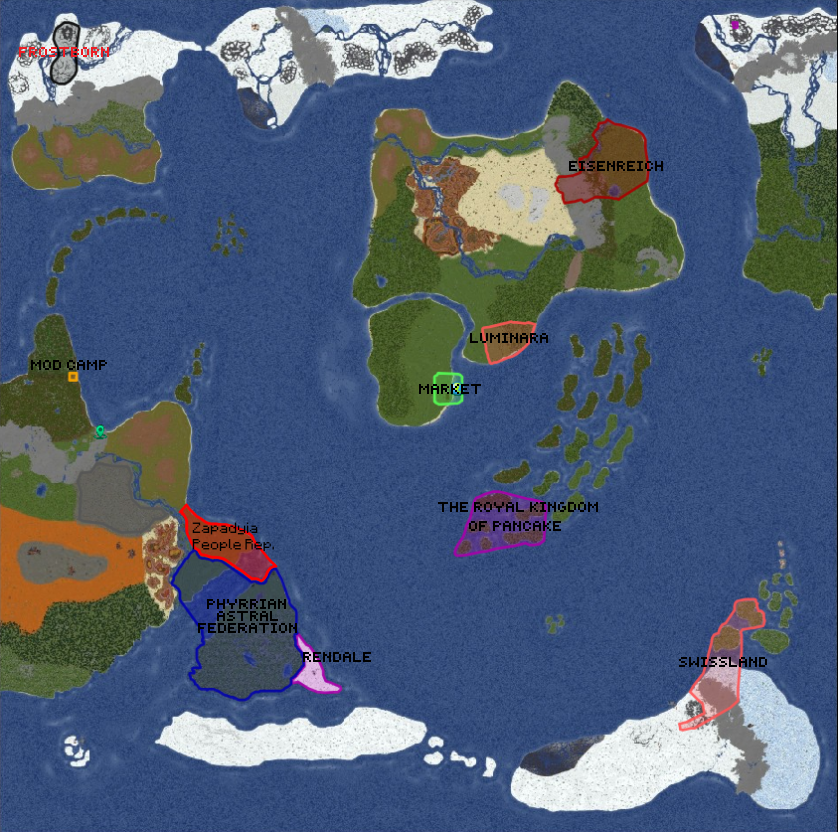
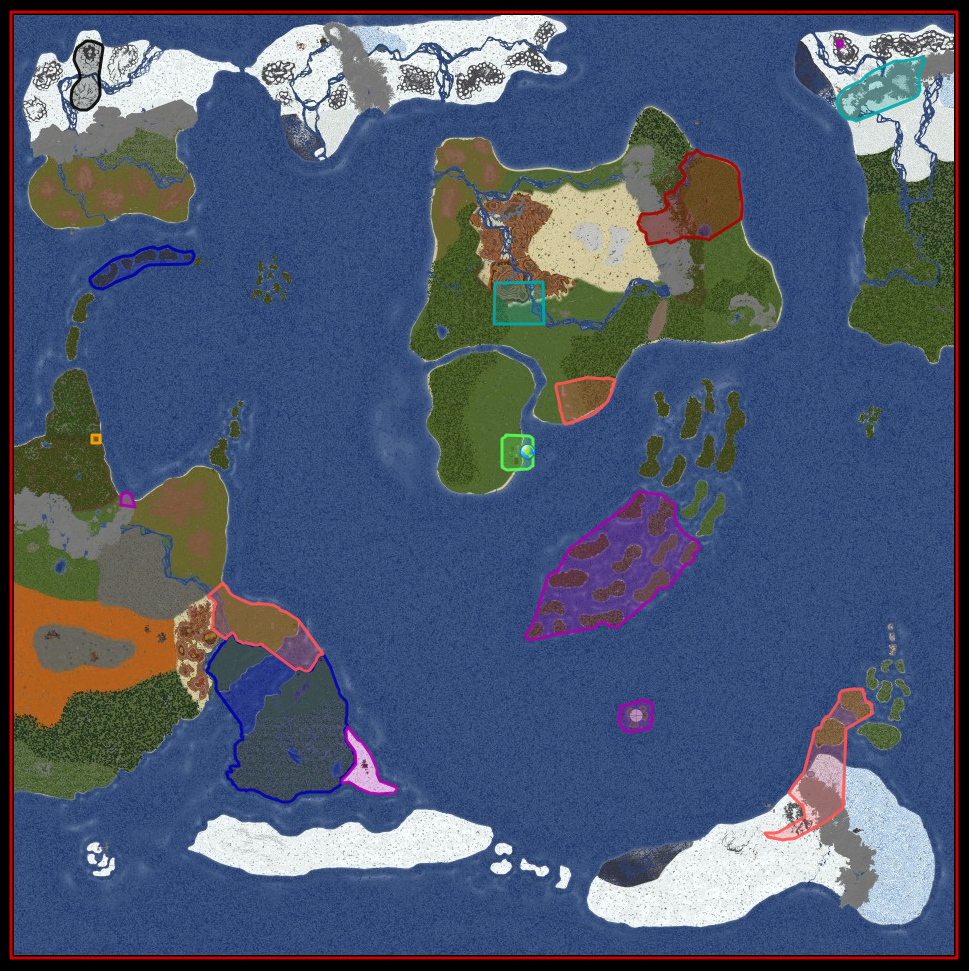
V1.0.24: new world map, pins moved, 5 unidentified nations marked

diff --git a/Map/index.html b/Map/index.html
@@ -419,16 +419,22 @@ svg.ie-toolbar-icon{height:17px;fill:#000}
 </div>
 <div class="window-body">
 <div class="map-frame">
-<img class="map-image" src="../images/map/federation-map.webp" alt="Map of the world" width="838" height="832">
-<a class="map-pin" style="left:27.7%;top:79.9%;--pin:#0000a8" href="../Astralyia/" data-name="The Astralyian Republic" data-status="Member nation"></a>
-<a class="map-pin" style="left:30.4%;top:68.3%;--pin:#0000a8" href="../ZPR/" data-name="The Zapadiyan People's Republic" data-status="Member nation"></a>
-<a class="map-pin" style="left:37.9%;top:82.3%;--pin:#0000a8" href="../Rendale/" data-name="The Kingdom of Rendale" data-status="Member nation"></a>
-<a class="map-pin" style="left:73%;top:22.8%;--pin:#00a000" href="../Relations/Eisenreich/" data-name="The Eisenreich" data-status="Good"></a>
-<a class="map-pin" style="left:60.3%;top:42.9%;--pin:#d4a000" href="../Relations/Luminara/" data-name="Luminara" data-status="Neutral"></a>
-<a class="map-pin" style="left:53.3%;top:48.4%;--pin:#006400" href="../Relations/MerchantsUnion/" data-name="Merchants' Union" data-status="Excellent"></a>
-<a class="map-pin" style="left:59.7%;top:64.8%;--pin:#00a000" href="../Relations/Pancake/" data-name="The Royal Kingdom of Pancake" data-status="Good"></a>
-<a class="map-pin" style="left:87.7%;top:75.6%;--pin:#808080" href="../Relations/Swissland/" data-name="Former Swissland" data-status="Dissolved"></a>
-<a class="map-pin" style="left:7.9%;top:9.4%;--pin:#8cb400" href="../Relations/Frostborn/" data-name="The Frostborn" data-status="Neutral&ndash;Positive"></a>
+<img class="map-image" src="../images/map/federation-map.webp" alt="Map of the world" width="969" height="971">
+<a class="map-pin" style="left:28.3%;top:79.1%;--pin:#0000a8" href="../Astralyia/" data-name="The Astralyian Republic" data-status="Member nation"></a>
+<a class="map-pin" style="left:30.9%;top:67.8%;--pin:#0000a8" href="../ZPR/" data-name="The Zapadiyan People's Republic" data-status="Member nation"></a>
+<a class="map-pin" style="left:38.2%;top:81.4%;--pin:#0000a8" href="../Rendale/" data-name="The Kingdom of Rendale" data-status="Member nation"></a>
+<a class="map-pin" style="left:72.4%;top:23.4%;--pin:#00a000" href="../Relations/Eisenreich/" data-name="The Eisenreich" data-status="Good"></a>
+<a class="map-pin" style="left:60.0%;top:43.0%;--pin:#d4a000" href="../Relations/Luminara/" data-name="Luminara" data-status="Neutral"></a>
+<a class="map-pin" style="left:53.2%;top:48.4%;--pin:#006400" href="../Relations/MerchantsUnion/" data-name="Merchants' Union" data-status="Excellent"></a>
+<a class="map-pin" style="left:59.5%;top:64.4%;--pin:#00a000" href="../Relations/Pancake/" data-name="The Royal Kingdom of Pancake" data-status="Good"></a>
+<a class="map-pin" style="left:86.8%;top:74.9%;--pin:#808080" href="../Relations/Swissland/" data-name="Former Swissland" data-status="Dissolved"></a>
+<a class="map-pin" style="left:8.9%;top:10.4%;--pin:#8cb400" href="../Relations/Frostborn/" data-name="The Frostborn" data-status="Neutral&ndash;Positive"></a>
+<!-- New nations on the map, not identified yet: no page to link to, so they are not links. -->
+<span class="map-pin map-pin-soon" tabindex="0" style="left:14.4%;top:27.6%;--pin:#c8c8c8" data-name="Unidentified nation" data-status="Will be added soon"></span>
+<span class="map-pin map-pin-soon" tabindex="0" style="left:53.5%;top:31.1%;--pin:#c8c8c8" data-name="Unidentified nation" data-status="Will be added soon"></span>
+<span class="map-pin map-pin-soon" tabindex="0" style="left:90.8%;top:9.1%;--pin:#c8c8c8" data-name="Unidentified nation" data-status="Will be added soon"></span>
+<span class="map-pin map-pin-soon" tabindex="0" style="left:13.1%;top:51.5%;--pin:#c8c8c8" data-name="Unidentified nation" data-status="Will be added soon"></span>
+<span class="map-pin map-pin-soon" tabindex="0" style="left:65.6%;top:73.7%;--pin:#c8c8c8" data-name="Unidentified nation" data-status="Will be added soon"></span>
 <div class="map-tip" role="tooltip" hidden></div>
 </div>
 </div>
@@ -461,6 +467,7 @@ svg.ie-toolbar-icon{height:17px;fill:#000}
 <tr class="map-relation"><td><span class="map-key" style="--pin:#8cb400"></span></td><td><a href="../Relations/Frostborn/">The Frostborn</a></td><td>Neutral&ndash;Positive</td></tr>
 <tr class="map-relation"><td><span class="map-key" style="--pin:#d4a000"></span></td><td><a href="../Relations/Luminara/">Luminara</a></td><td>Neutral</td></tr>
 <tr class="map-relation"><td><span class="map-key" style="--pin:#808080"></span></td><td><a href="../Relations/Swissland/">Former Swissland</a></td><td>Dissolved</td></tr>
+<tr><td><span class="map-key" style="--pin:#c8c8c8"></span></td><td>Unidentified nations (5)</td><td>Will be added soon</td></tr>
 </tbody>
 </table>
 
@@ -666,7 +673,7 @@ restricted=getCookie("interphyr_admin_session")!=="1"&&!isPafMember(getCookie("i
 
 if(restricted){
 frame.querySelectorAll(".map-pin").forEach(function(pin){
-if(pin.getAttribute("data-status")!=="Member nation"){
+if(pin.getAttribute("data-status")!=="Member nation"&&!pin.classList.contains("map-pin-soon")){
 pin.style.setProperty("--pin","#808080");
 pin.setAttribute("data-status","");
 }

diff --git a/UpdateLogs/index.html b/UpdateLogs/index.html
@@ -412,6 +412,15 @@ svg.ie-toolbar-icon{height:17px;fill:#000}
 <h2>Version History</h2>
 
 <div class="log-entry">
+<h3>V1.0.24 <span class="log-date">14.10.2026</span></h3>
+<ul>
+<li>World Map: new, updated map of the world from the Federation Cartographic Survey. All nation pins moved to match it.</li>
+<li>World Map: five new nations on the map are marked "Unidentified nation: will be added soon", with a row in the legend.</li>
+<li>InterPhyr Modern: the World Map shows the new map and the five new pins too.</li>
+</ul>
+</div>
+
+<div class="log-entry">
 <h3>V1.0.23 <span class="log-date">14.10.2026</span></h3>
 <ul>
 <li>InterPhyr Modern: new "page not found" page for missing /Modern/ addresses: a big floating glass 404 and a word from the People's Information Ministry, with buttons back to InterPhyr and to the news. The address bar keeps the address that was asked for.</li>

diff --git a/Modern/modern.js b/Modern/modern.js
@@ -1482,9 +1482,17 @@ doc.querySelectorAll(".map-pin").forEach(function(classic){
 var member=classic.getAttribute("data-status")==="Member nation";
 var status=restricted&&!member?"":classic.getAttribute("data-status");
 var name=classic.getAttribute("data-name");
-var pin=adopt(classic,r.url);
+var pin;
+/* Nations not identified yet have no page: their pin isn't a link. */
+if(!classic.getAttribute("href")){
+pin=el("span");
+pin.tabIndex=0;
+status=classic.getAttribute("data-status");
+}else{
+pin=adopt(classic,r.url);
 var target=new URL(classic.getAttribute("href"),r.url);
 pin.href=modernHref(target.pathname.slice(new URL(siteRoot).pathname.length));
+}
 pin.className="m-map-pin m-pin-"+(status?(relationTone("Relation",status)||"none"):"none");
 pin.style.left=classic.style.left;
 pin.style.top=classic.style.top;

diff --git a/index.html b/index.html
@@ -704,7 +704,7 @@ Service to the registered nation has been suspended for geopolitical reasons.
 
 <p>InterPhyr provides a common place for member nations to access information, coordinate projects, communicate and cooperate.</p>
 
-<p class="small">InterPhyr Version: V1.0.23</p>
+<p class="small">InterPhyr Version: V1.0.24</p>
 
 </section>
 
